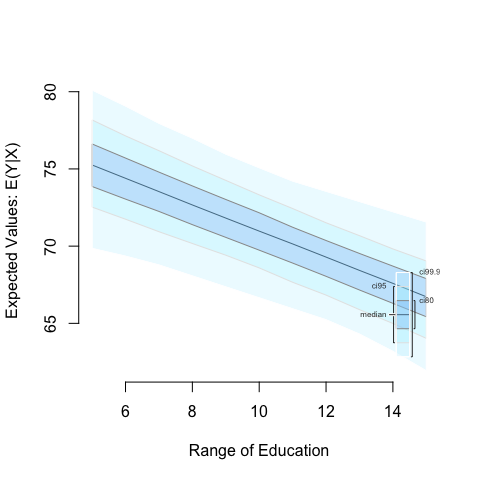
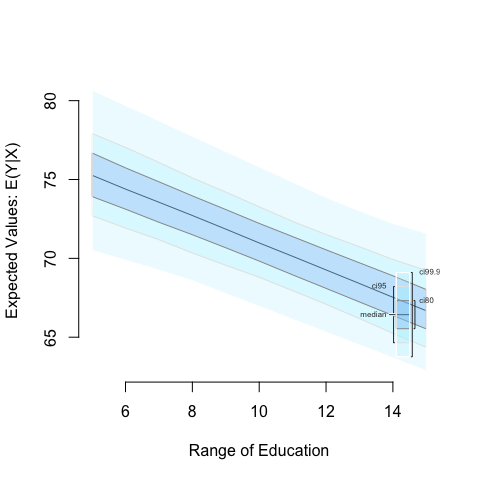
news update for #206

diff --git a/README.md b/README.md
@@ -179,23 +179,23 @@ After setting our predictor value, we simulate using the `sim()` method:
     ##  sim x :
     ##  -----
     ## ev
-    ##       mean       sd      50%    2.5%   97.5%
-    ## 1 75.38221 1.659304 75.42198 72.0131 78.6433
+    ##      mean       sd      50%     2.5%    97.5%
+    ## 1 75.3973 1.641186 75.35511 72.24058 78.52017
     ## pv
-    ##         mean      sd      50%     2.5%    97.5%
-    ## [1,] 74.9095 9.81625 74.79512 57.09842 93.70146
+    ##          mean       sd      50%     2.5%    97.5%
+    ## [1,] 75.12236 9.553108 75.38577 54.72149 94.22092
     ## 
     ##  sim x1 :
     ##  -----
     ## ev
-    ##       mean       sd      50%     2.5%    97.5%
-    ## 1 66.75359 1.468152 66.76786 63.85479 69.57543
+    ##       mean      sd      50%     2.5%   97.5%
+    ## 1 66.70304 1.48891 66.71305 63.87968 69.6992
     ## pv
     ##          mean       sd      50%     2.5%    97.5%
-    ## [1,] 66.74161 9.628595 66.93027 48.35818 84.25896
+    ## [1,] 66.51718 9.834028 66.46883 47.29906 85.94145
     ## fd
     ##        mean       sd       50%      2.5%     97.5%
-    ## 1 -8.628618 1.463135 -8.618177 -11.40652 -5.596616
+    ## 1 -8.694264 1.487509 -8.742431 -11.55693 -5.813111
 
 At this point, we’ve estimated a model, set the predictor value, and
 estimated easily interpretable quantities of interest. The `summary()`

diff --git a/NEWS.md b/NEWS.md
@@ -16,11 +16,13 @@ to @vincentarelbundock for prompting. #229
 
 
 
-## Minor changes and bug fixes
+## Minor changes
 
 
+## Bug fixes
 
-
+- Resolve a bug where appropriate `plot`s were not created for `mlogitbayes`.
+#206
 
 
 Zelig version 5.0-16
